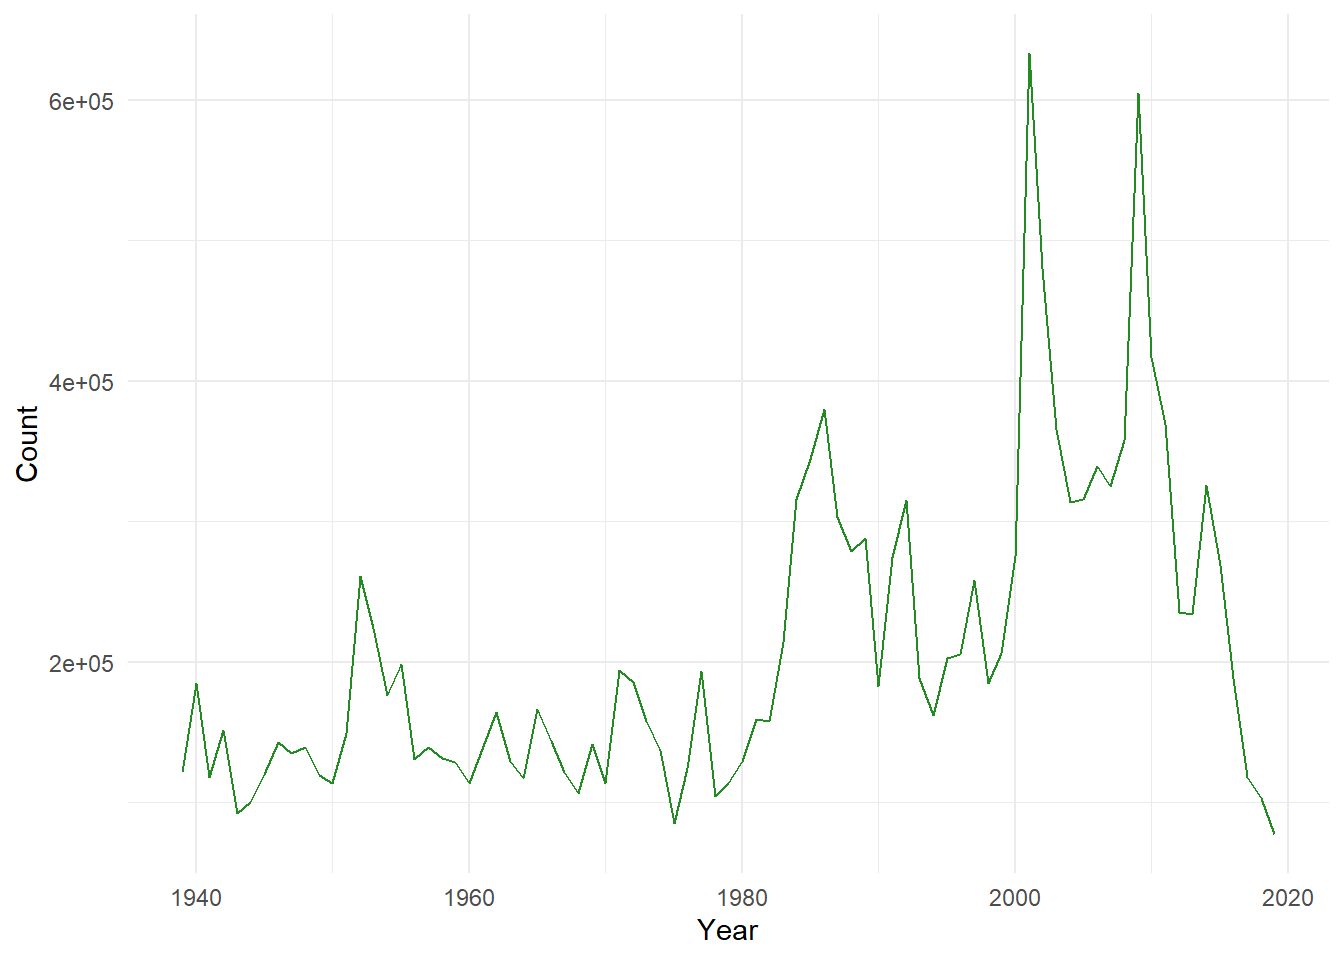
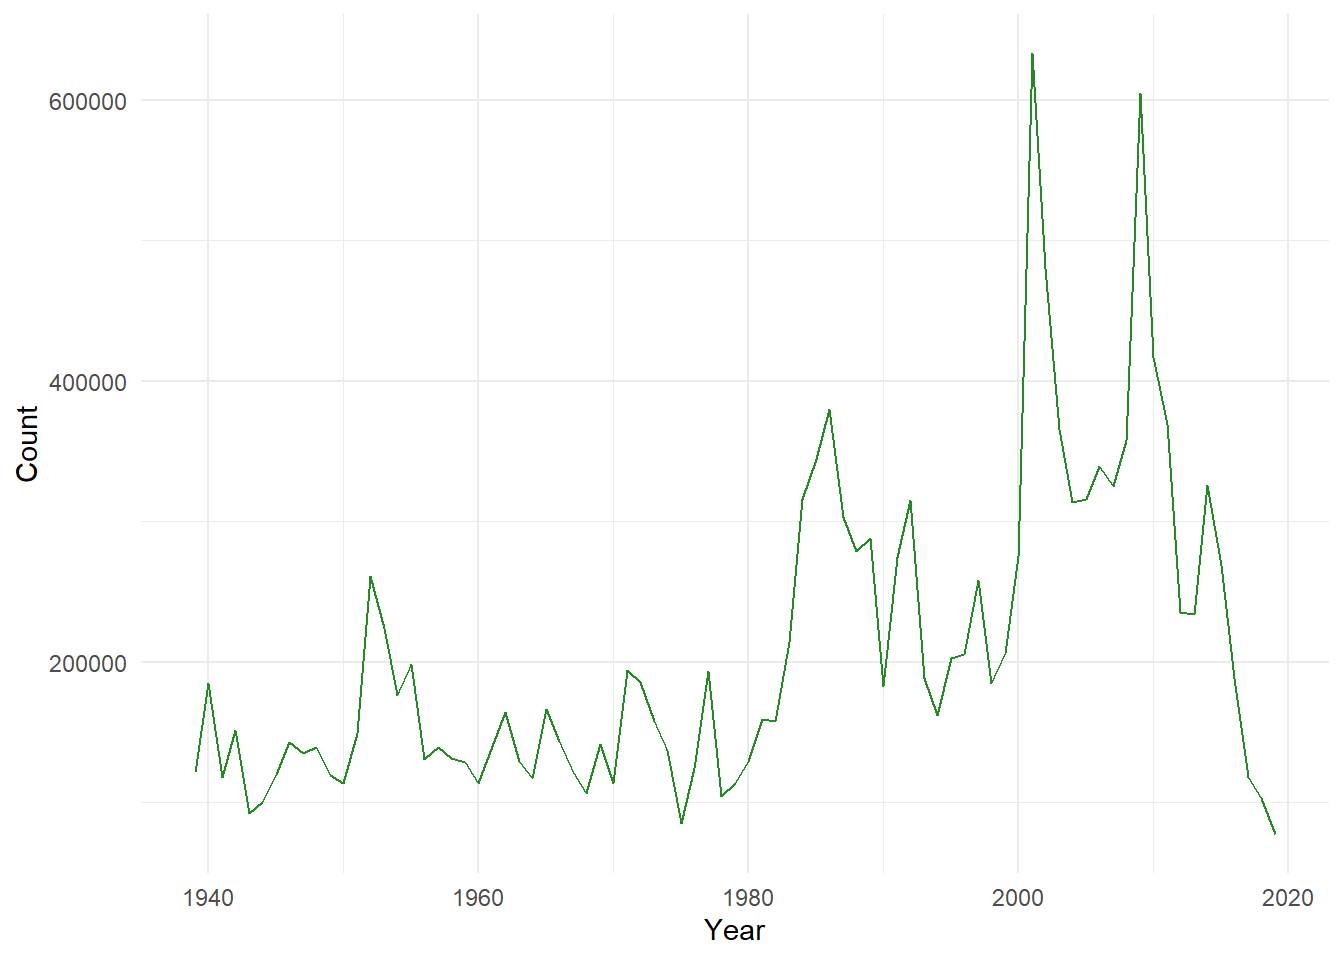
no more sci notation in salmon project

diff --git a/public/blog/01/01/1/hw2_task2/index.html b/public/blog/01/01/1/hw2_task2/index.html
@@ -277,7 +277,7 @@ salmon_month_gg &lt;- ggplot(salmon_monthly, aes(x = month, y = total, group = y
   geom_line(aes(color = year)) + # color by year
   labs (x = &quot;Month&quot;, y = &quot;Count&quot;) +
   scale_color_paletteer_c(&quot;ggthemes::Blue-Teal&quot;) + # change color palette
-  scale_y_continuous() +
+  scale_y_continuous(labels = function(x) format(x, scientific = FALSE)) + # Get rid of scientific notation in counts
   theme_minimal()
 
 salmon_month_gg</code></pre>
@@ -298,7 +298,7 @@ salmon_yearly &lt;- salmon_parse %&gt;%
 salmon_year_gg &lt;- ggplot(salmon_yearly, aes(x = year, y = total)) +
   geom_line(color = &quot;forestgreen&quot;) +
   labs (x = &quot;Year&quot;, y = &quot;Count&quot;) +
-  scale_y_continuous() +
+  scale_y_continuous(labels = function(x) format(x, scientific = FALSE)) +
   theme_minimal()
 
 salmon_year_gg</code></pre>

diff --git a/content/blog/HW2_Task2.html b/content/blog/HW2_Task2.html
@@ -68,7 +68,7 @@ salmon_month_gg &lt;- ggplot(salmon_monthly, aes(x = month, y = total, group = y
   geom_line(aes(color = year)) + # color by year
   labs (x = &quot;Month&quot;, y = &quot;Count&quot;) +
   scale_color_paletteer_c(&quot;ggthemes::Blue-Teal&quot;) + # change color palette
-  scale_y_continuous() +
+  scale_y_continuous(labels = function(x) format(x, scientific = FALSE)) + # Get rid of scientific notation in counts
   theme_minimal()
 
 salmon_month_gg</code></pre>
@@ -89,7 +89,7 @@ salmon_yearly &lt;- salmon_parse %&gt;%
 salmon_year_gg &lt;- ggplot(salmon_yearly, aes(x = year, y = total)) +
   geom_line(color = &quot;forestgreen&quot;) +
   labs (x = &quot;Year&quot;, y = &quot;Count&quot;) +
-  scale_y_continuous() +
+  scale_y_continuous(labels = function(x) format(x, scientific = FALSE)) +
   theme_minimal()
 
 salmon_year_gg</code></pre>
